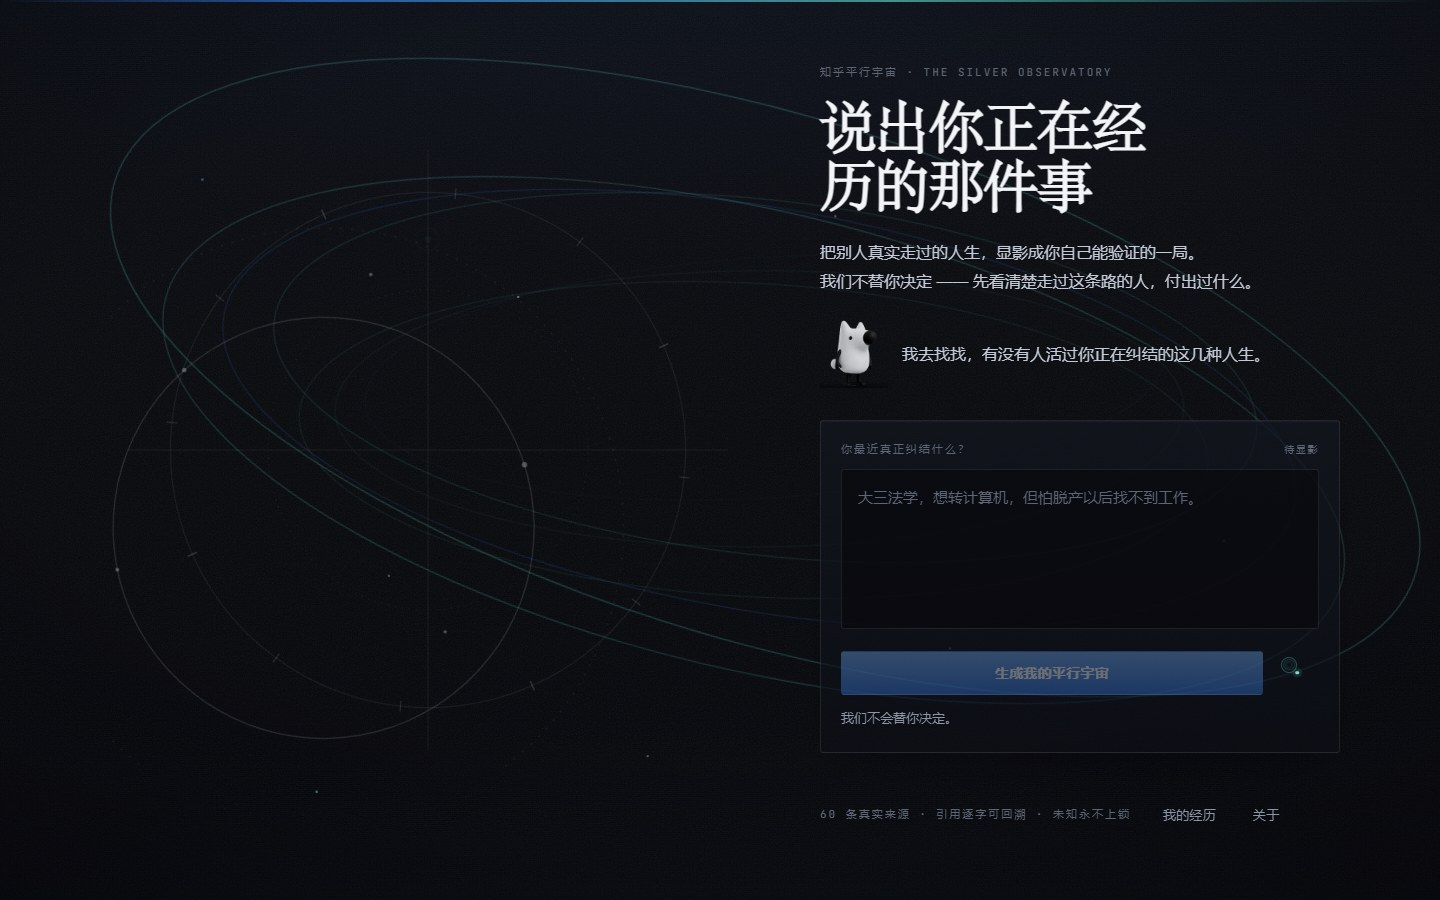
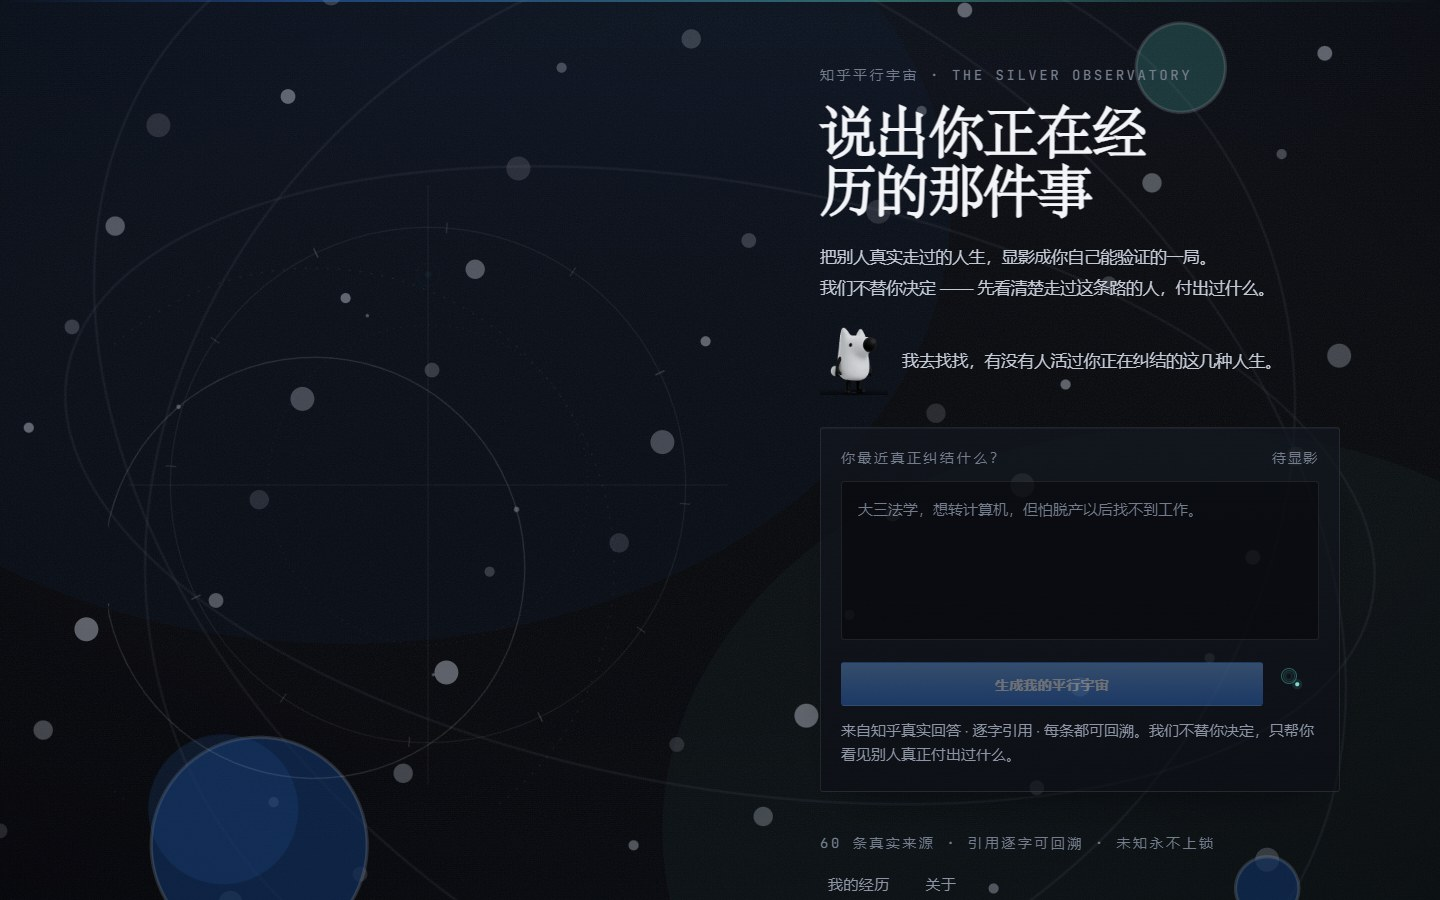
docs: README 截图重拍（桌面+手机各 3 张），按画面内容命名

diff --git a/README.md b/README.md
@@ -9,26 +9,30 @@
 **知乎黑客松 2026 · 校园新锐季** | 主赛道：跨次元游乐场 | 关联方向：知识炼金场
 
 <!--
-  截图按**画面内容**命名（文件名即内容），不要按历史沿用的旧名改图。
-  当前 5 张都是桌面端 1440×900 实拍：
-    home.jpg              首页 · 命运观象厅
-    session-clarify.jpg   动态澄清
-    world-forge.jpg       World Forge · 三条轨道
-    play-act1.jpg         推演 · 第一幕「走进去」
-    experience-card.jpg   借来的经验卡
-  仓库里没有真实的终局截图，所以这里也不摆一张冒充终局的图。
+  截图按**画面内容**命名（文件名即内容）。重拍请走真实主链：
+  建局 → 澄清 → 编译 → 对局，拍完自检文件哈希（防止两张拍到同一画面）。
+
+  桌面 1440×900 与手机 390×844 各一套，共 6 张：
+    home(.jpg / -mobile.jpg)               首页 · 命运观象厅
+    experience-reveal(...)                 体验揭示 · 筛出可核验亲历者后逐段看
+    play-act1(...)                         推演 · 第一幕「走进去」
+
+  仓库里没有真实可稳定复现的终局截图，所以这里不摆一张冒充终局的图。
 -->
 <p align="center">
+  <strong>桌面 1440×900</strong><br />
   <a href="./public/screenshots/home.jpg"><img src="./public/screenshots/home.jpg" width="32%" alt="首页 · 命运观象厅" /></a>
-  <a href="./public/screenshots/session-clarify.jpg"><img src="./public/screenshots/session-clarify.jpg" width="32%" alt="动态澄清 · 只问会改变结论的事" /></a>
-  <a href="./public/screenshots/world-forge.jpg"><img src="./public/screenshots/world-forge.jpg" width="32%" alt="World Forge · 相似 / 另一种走法 / 相反结果 三条轨道" /></a>
+  <a href="./public/screenshots/experience-reveal.jpg"><img src="./public/screenshots/experience-reveal.jpg" width="32%" alt="体验揭示 · 筛出可核验的亲历者，逐段看他们真正走过的部分" /></a>
+  <a href="./public/screenshots/play-act1.jpg"><img src="./public/screenshots/play-act1.jpg" width="32%" alt="推演 · 第一幕：走进去" /></a>
 </p>
 <p align="center">
-  <a href="./public/screenshots/play-act1.jpg"><img src="./public/screenshots/play-act1.jpg" width="32%" alt="推演 · 第一幕：走进去" /></a>
-  <a href="./public/screenshots/experience-card.jpg"><img src="./public/screenshots/experience-card.jpg" width="32%" alt="借来的经验 · 一条真实经历解锁一个原本不存在的行动" /></a>
+  <strong>手机 390×844</strong><br />
+  <a href="./public/screenshots/home-mobile.jpg"><img src="./public/screenshots/home-mobile.jpg" width="18%" alt="首页 · 手机" /></a>
+  <a href="./public/screenshots/experience-reveal-mobile.jpg"><img src="./public/screenshots/experience-reveal-mobile.jpg" width="18%" alt="体验揭示 · 手机" /></a>
+  <a href="./public/screenshots/play-act1-mobile.jpg"><img src="./public/screenshots/play-act1-mobile.jpg" width="18%" alt="推演第一幕 · 手机" /></a>
 </p>
 
-<p align="center"><sub>桌面端截图（1440×900）· 点击任意一张可看原图 · 首页 → 动态澄清 → World Forge → 第一幕 → 借来的经验</sub></p>
+<p align="center"><sub>桌面 1440×900 与手机 390×844 实拍，非静态拼图 · 点击任意一张可看原图</sub></p>
 
 ---
 
